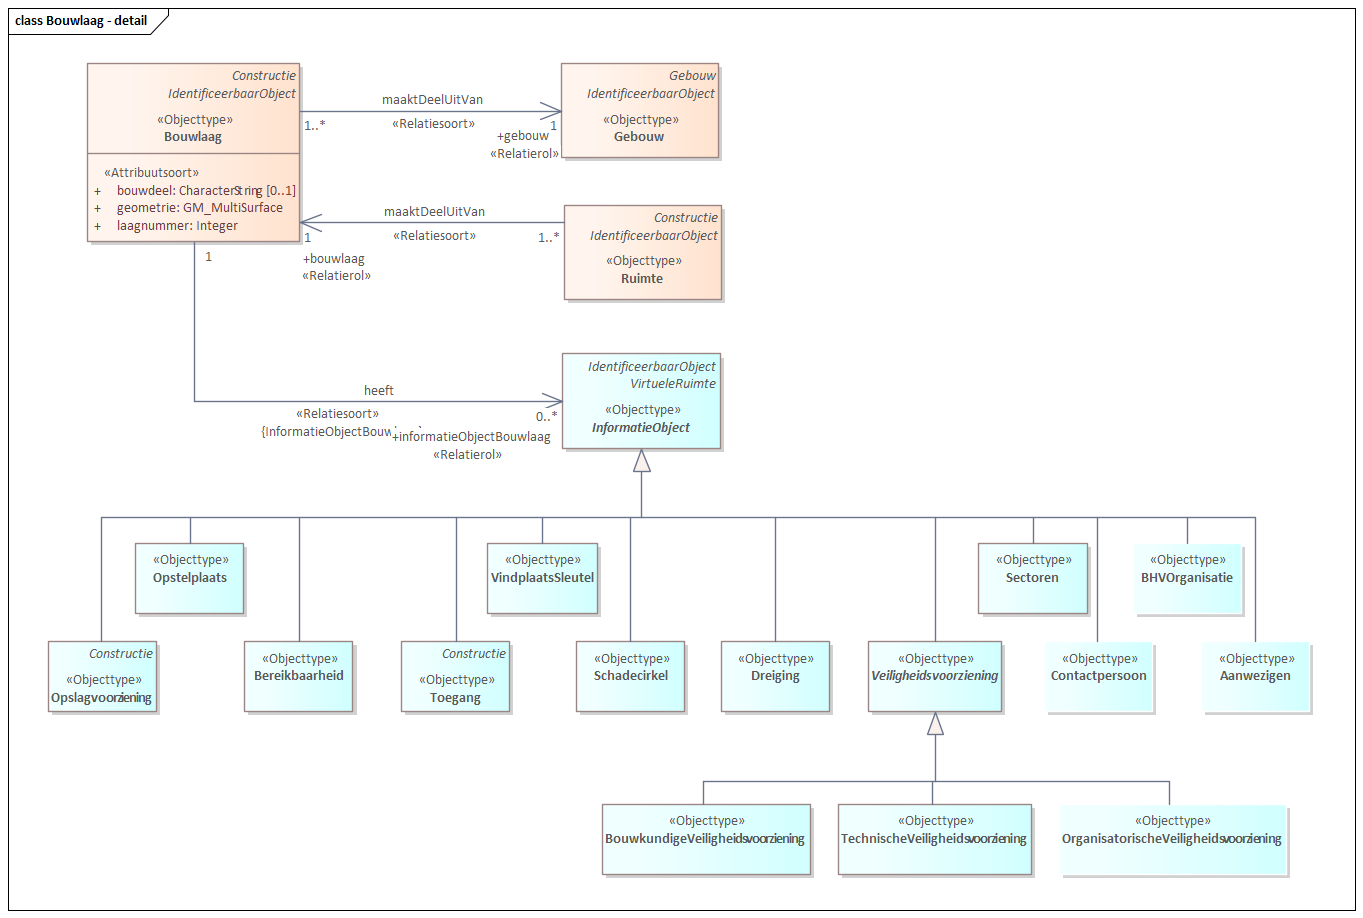
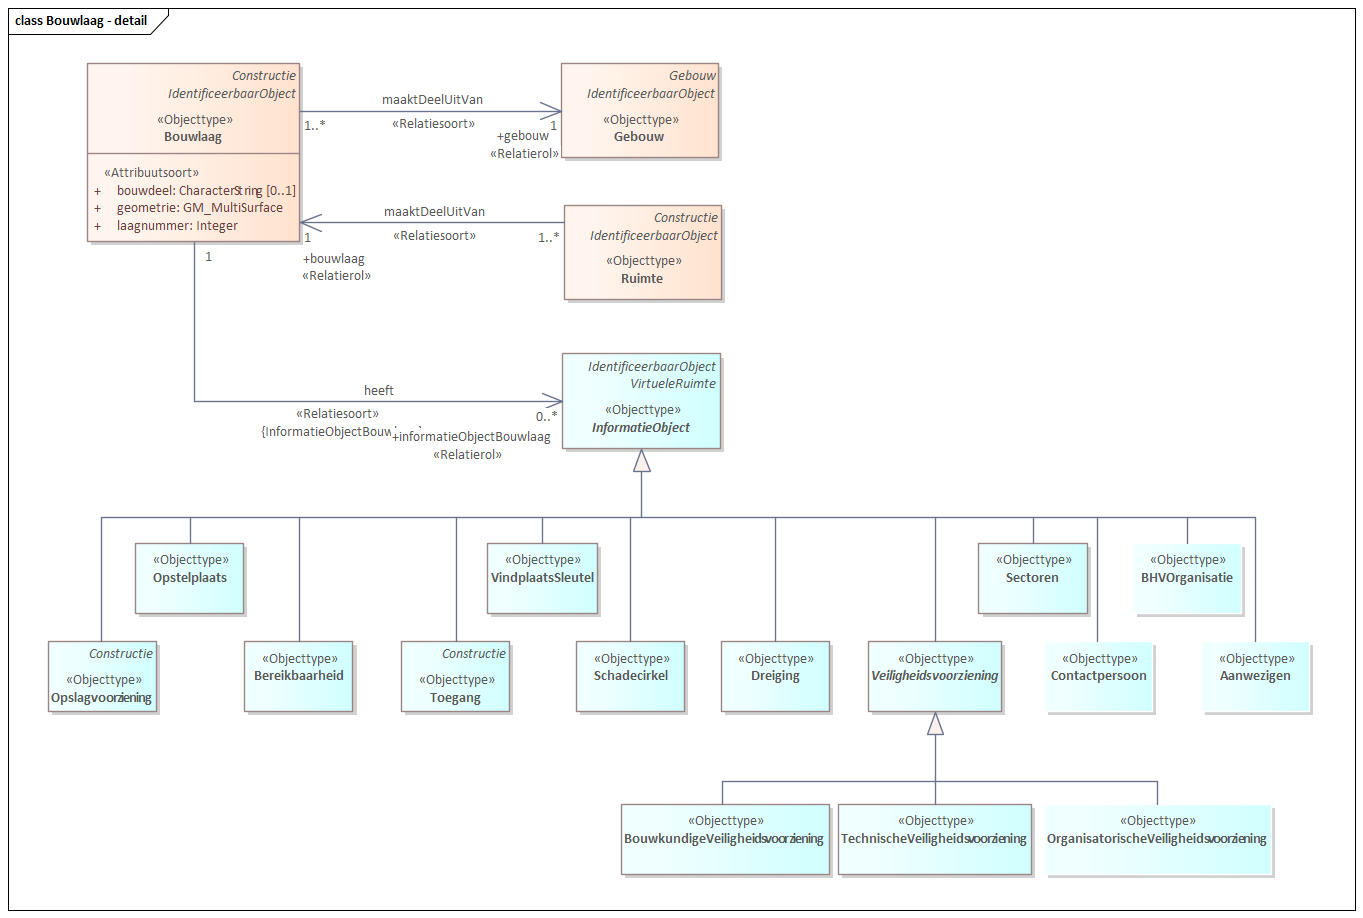
MIMCM-IMROI-conceptueelmodel-1.0-0-20231106-20240613-143016

Changed region(s): [[0.4314, 0.854, 0.6163, 0.976], [0.7704, 0.854, 0.9552, 0.976], [0.6779, 0.854, 0.7087, 0.8845]]

diff --git a/data/IMROI-cat.respec.html b/data/IMROI-cat.respec.html
@@ -1,7 +1,7 @@
 
 <!DOCTYPE HTML><section id="cat" class="normative">
    <h2>Gegevensdefinitie</h2>
-   <!--MIMCM-IMROI-conceptueelmodel-1.0-0-20231106-20240613-142655 imvertor 3.0.0-->
+   <!--MIMCM-IMROI-conceptueelmodel-1.0-0-20231106-20240613-143016 imvertor 3.0.0-->
    <section id="global_package_IMROIDomein">
       <h3>Domein   IMROI - domein</h3>
       <section id="EAID_F0702C87_77BC_4f87_90C6_7A2C434CAA31">
@@ -788,7 +788,7 @@
                <h6>   Bouwlaag - detail</h6>
                <div class="imageinfo ">
                   <figure><img src="data/Images/EAID_A1D0B75E_FF59_4374_82E7_628415DE54C6.png" usemap="#imagemap-EAID_A1D0B75E_FF59_4374_82E7_628415DE54C6" alt="Diagram &#xA;                              &#xA;                           "><figcaption>Bouwlaag</figcaption>
-                  </figure><map name="imagemap-EAID_A1D0B75E_FF59_4374_82E7_628415DE54C6"><area shape="rect" alt="Ruimte" coords="564,205,722,300" href="#global_class_IMROIDomein_Ruimte"><area shape="rect" alt="Contactpersoon" coords="1044,641,1153,712" href="#global_class_IMROIDomein_Contactpersoon"><area shape="rect" alt="BHVOrganisatie" coords="1133,543,1242,614" href="#global_class_IMROIDomein_BHVOrganisatie"><area shape="rect" alt="Aanwezigen" coords="1201,641,1310,712" href="#global_class_IMROIDomein_Aanwezigen"><area shape="rect" alt="OrganisatorischeVeiligheidsvoorziening" coords="1059,804,1287,875" href="#global_class_IMROIDomein_OrganisatorischeVeiligheidsvoorziening"><area shape="rect" alt="BouwkundigeVeiligheidsvoorziening" coords="602,804,811,875" href="#global_class_IMROIDomein_BouwkundigeVeiligheidsvoorziening"><area shape="rect" alt="TechnischeVeiligheidsvoorziening" coords="838,804,1032,875" href="#global_class_IMROIDomein_TechnischeVeiligheidsvoorziening"><area shape="rect" alt="Veiligheidsvoorziening" coords="868,641,1002,712" href="#global_class_IMROIDomein_Veiligheidsvoorziening"><area shape="rect" alt="Bereikbaarheid" coords="244,641,353,712" href="#global_class_IMROIDomein_Bereikbaarheid"><area shape="rect" alt="Sectoren" coords="978,543,1088,614" href="#global_class_IMROIDomein_Sectoren"><area shape="rect" alt="Schadecirkel" coords="576,641,685,712" href="#global_class_IMROIDomein_Schadecirkel"><area shape="rect" alt="Opslagvoorziening" coords="48,641,157,712" href="#global_class_IMROIDomein_Opslagvoorziening"><area shape="rect" alt="Dreiging" coords="721,641,830,712" href="#global_class_IMROIDomein_Dreiging"><area shape="rect" alt="VindplaatsSleutel" coords="487,543,598,614" href="#global_class_IMROIDomein_VindplaatsSleutel"><area shape="rect" alt="Toegang" coords="401,641,510,712" href="#global_class_IMROIDomein_Toegang"><area shape="rect" alt="Opstelplaats" coords="135,543,244,614" href="#global_class_IMROIDomein_Opstelplaats"><area shape="rect" alt="Gebouw" coords="561,63,719,158" href="#global_class_IMROIDomein_Gebouw"><area shape="rect" alt="InformatieObject" coords="562,353,721,449" href="#global_class_IMROIDomein_InformatieObject"><area shape="rect" alt="Bouwlaag" coords="87,63,300,242" href="#global_class_IMROIDomein_Bouwlaag"></map></div>
+                  </figure><map name="imagemap-EAID_A1D0B75E_FF59_4374_82E7_628415DE54C6"><area shape="rect" alt="Ruimte" coords="564,205,722,300" href="#global_class_IMROIDomein_Ruimte"><area shape="rect" alt="Contactpersoon" coords="1044,641,1153,712" href="#global_class_IMROIDomein_Contactpersoon"><area shape="rect" alt="BHVOrganisatie" coords="1133,543,1242,614" href="#global_class_IMROIDomein_BHVOrganisatie"><area shape="rect" alt="Aanwezigen" coords="1201,641,1310,712" href="#global_class_IMROIDomein_Aanwezigen"><area shape="rect" alt="OrganisatorischeVeiligheidsvoorziening" coords="1044,804,1272,875" href="#global_class_IMROIDomein_OrganisatorischeVeiligheidsvoorziening"><area shape="rect" alt="BouwkundigeVeiligheidsvoorziening" coords="621,804,830,875" href="#global_class_IMROIDomein_BouwkundigeVeiligheidsvoorziening"><area shape="rect" alt="TechnischeVeiligheidsvoorziening" coords="838,804,1032,875" href="#global_class_IMROIDomein_TechnischeVeiligheidsvoorziening"><area shape="rect" alt="Veiligheidsvoorziening" coords="868,641,1002,712" href="#global_class_IMROIDomein_Veiligheidsvoorziening"><area shape="rect" alt="Bereikbaarheid" coords="244,641,353,712" href="#global_class_IMROIDomein_Bereikbaarheid"><area shape="rect" alt="Sectoren" coords="978,543,1088,614" href="#global_class_IMROIDomein_Sectoren"><area shape="rect" alt="Schadecirkel" coords="576,641,685,712" href="#global_class_IMROIDomein_Schadecirkel"><area shape="rect" alt="Opslagvoorziening" coords="48,641,157,712" href="#global_class_IMROIDomein_Opslagvoorziening"><area shape="rect" alt="Dreiging" coords="721,641,830,712" href="#global_class_IMROIDomein_Dreiging"><area shape="rect" alt="VindplaatsSleutel" coords="487,543,598,614" href="#global_class_IMROIDomein_VindplaatsSleutel"><area shape="rect" alt="Toegang" coords="401,641,510,712" href="#global_class_IMROIDomein_Toegang"><area shape="rect" alt="Opstelplaats" coords="135,543,244,614" href="#global_class_IMROIDomein_Opstelplaats"><area shape="rect" alt="Gebouw" coords="561,63,719,158" href="#global_class_IMROIDomein_Gebouw"><area shape="rect" alt="InformatieObject" coords="562,353,721,449" href="#global_class_IMROIDomein_InformatieObject"><area shape="rect" alt="Bouwlaag" coords="87,63,300,242" href="#global_class_IMROIDomein_Bouwlaag"></map></div>
             </section>
             
             <table style="width: 100%;">
@@ -11709,7 +11709,7 @@
 </section>
 <section id="lis" class="normative">
    <h2>Inhoud van waardenlijsten</h2>
-   <!--MIMCM-IMROI-conceptueelmodel-1.0-0-20231106-20240613-142655 imvertor 3.0.0-->
+   <!--MIMCM-IMROI-conceptueelmodel-1.0-0-20231106-20240613-143016 imvertor 3.0.0-->
    <section>
       <h3>Codelijst inhoud   </h3>
       <section id="detail_class_IMROIDomein_TypeDraagconstructie">
